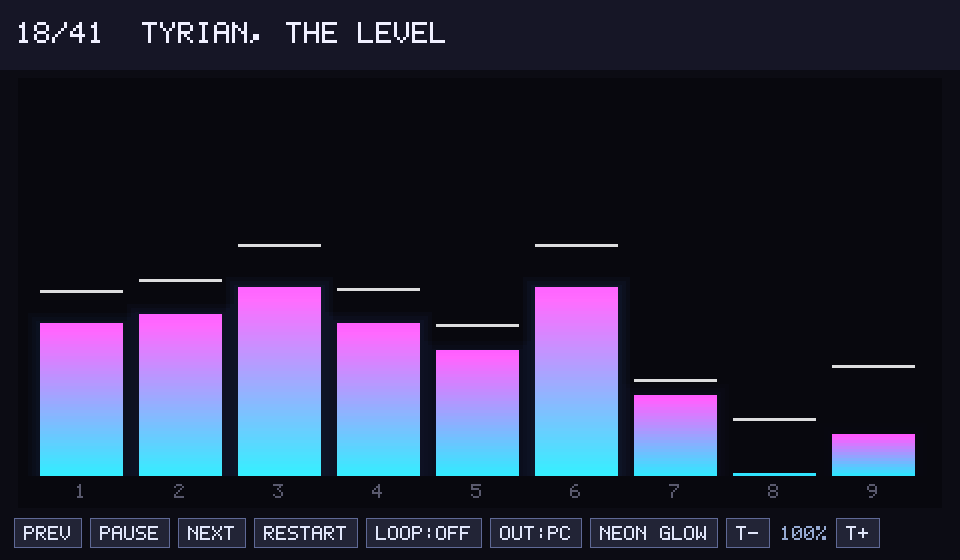
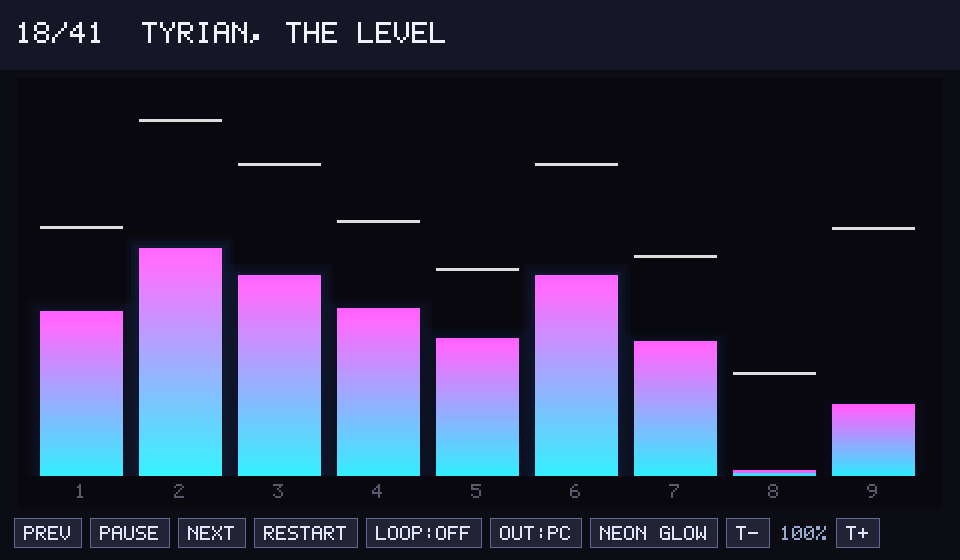
GUI: peak-to-peak level so silent channels read zero, and run hotter
The peak-|cval| measure still lit up channels that are keyed but produce no
real tone: a frozen/DC operator (no pitch) sits at a non-zero value, so on
sparse tracks (one voice + percussion) the idle voices showed "all up".

Track peak-to-peak (AC) amplitude per operator instead: a DC/frozen operator
has ~zero range and reads as silent, while a real oscillating note reads its
true loudness. Recalibrated the normalization + curve so busy tracks push into
amber/red while quiet channels stay low and idle ones read ~0.

Refreshed docs screenshots.

Claude-Session: https://claude.ai/code/session_017QpGUpiZNHxga1jaZw9sKq

diff --git a/src/emu/opl.c b/src/emu/opl.c
@@ -116,7 +116,7 @@
  */
 typedef struct operator_struct {
 	Bit32s cval, lastcval;			// current output/last output (used for feedback)
-	Bit32s vu;						// tyrian-retrowave: peak |cval| since last probe read (visualizer)
+	Bit32s vmax, vmin;				// tyrian-retrowave: cval range since last probe (visualizer)
 	Bit32u tcount, wfpos, tinc;		// time (position in waveform) and time increment
 	fltype amp, step_amp;			// and amplification (envelope)
 	fltype vol;						// volume
@@ -359,9 +359,11 @@ void operator_output(op_type* op_pt, Bit32s modulator, Bit32s trem) {
 
 		op_pt->cval = (Bit32s)(op_pt->step_amp*op_pt->vol*op_pt->cur_wform[i&op_pt->cur_wmask]*trem/16.0);
 
-		// tyrian-retrowave: track peak magnitude for the visualizer
-		{ Bit32s a = op_pt->cval < 0 ? -op_pt->cval : op_pt->cval;
-		  if (a > op_pt->vu) op_pt->vu = a; }
+		// tyrian-retrowave: track output range (peak-to-peak) for the visualizer.
+		// A frozen/DC operator (keyed but no real pitch) has ~zero range and so
+		// reads as silent, instead of showing false activity.
+		if (op_pt->cval > op_pt->vmax) op_pt->vmax = op_pt->cval;
+		if (op_pt->cval < op_pt->vmin) op_pt->vmin = op_pt->cval;
 	}
 }
 
@@ -1633,8 +1635,9 @@ void adlib_getsample(Bit16s* sndptr, Bits numsamples) {
 double opl_channel_level(int ch)
 {
 	if (ch < 0 || 9 + ch >= (int)MAXOPERATORS) return 0.0;
-	Bit32s v = op[9 + ch].vu;
-	op[9 + ch].vu = 0;
-	double lv = v / 4096.0;          // ~4096 = loudest note's peak |cval|
+	op_type *o = &op[9 + ch];
+	double pp = (o->vmax > o->vmin) ? (double)(o->vmax - o->vmin) : 0.0;
+	o->vmax = -2000000000; o->vmin = 2000000000;   // reset peak-to-peak window
+	double lv = pp / 2800.0;         // calibrated so a loud note nears full scale
 	return lv > 1.0 ? 1.0 : lv;
 }

diff --git a/src/rwgui.c b/src/rwgui.c
@@ -222,7 +222,7 @@ static void viz_update(void)
 		// loudness, envelope and silence, so bars move with the actual sound
 		// and a keyed-but-inaudible channel reads ~0.
 		float amp = (float)opl_channel_level(ch);
-		amp = powf(amp, 0.6f);   // perceptual curve: use the meter's full range
+		amp = powf(amp, 0.55f);   // perceptual curve: use the meter's full range
 
 		int fnum = fmchip[0xA0 + ch] | ((fmchip[0xB0 + ch] & 3) << 8);
 		int block = (fmchip[0xB0 + ch] >> 2) & 7;